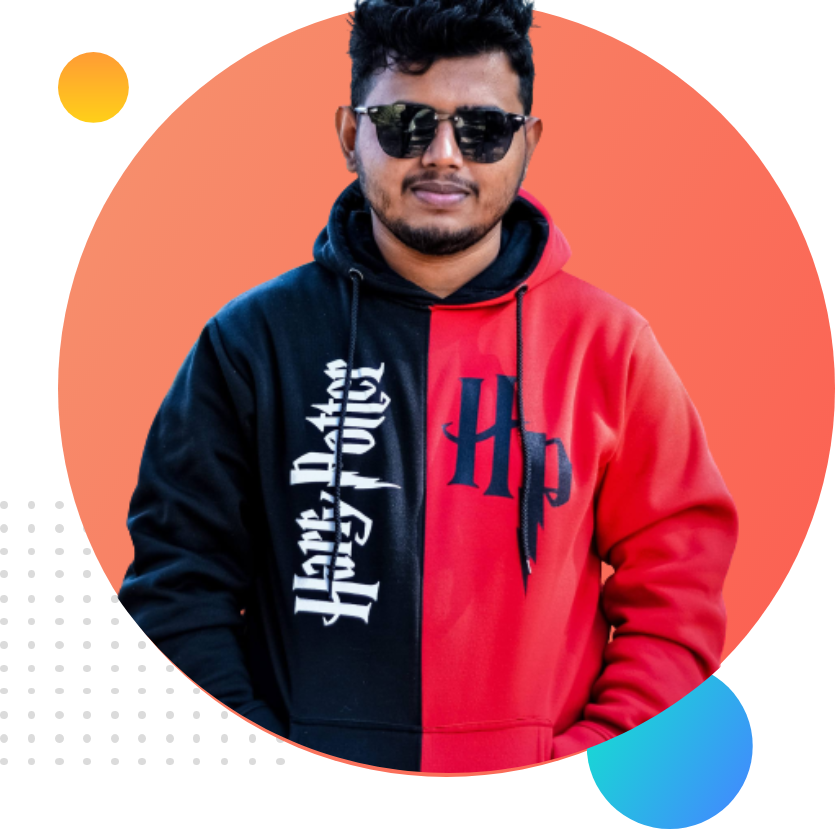
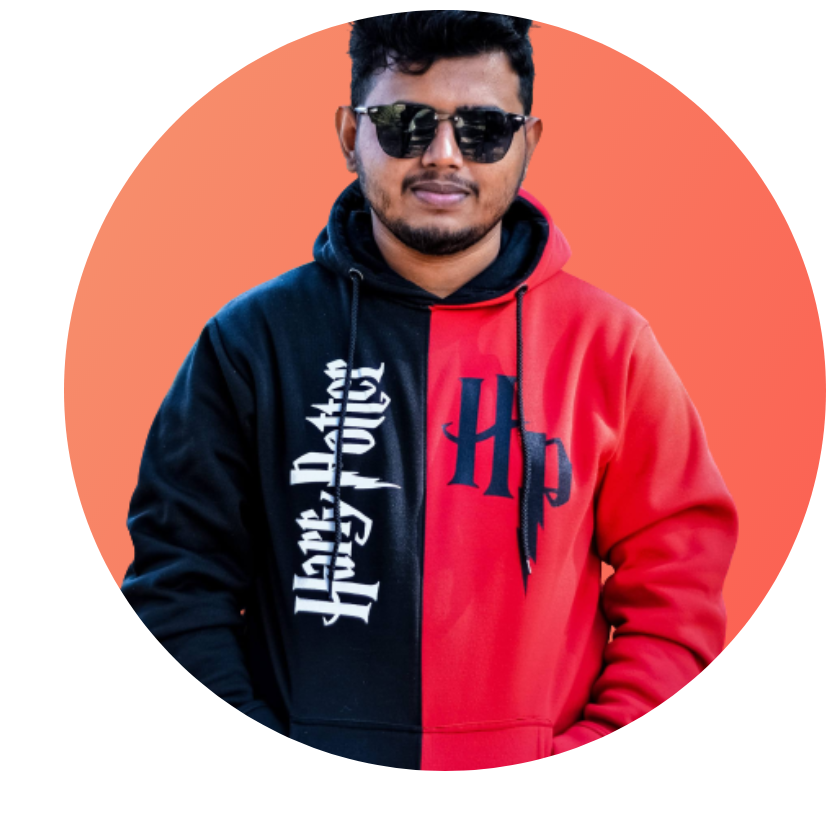
more code

diff --git a/index.html b/index.html
@@ -1,17 +1,34 @@
 <!DOCTYPE html>
 <html lang="en">
+
 <head>
     <meta charset="UTF-8">
     <meta http-equiv="X-UA-Compatible" content="IE=edge">
     <meta name="viewport" content="width=device-width, initial-scale=1.0">
     <title>Sudipta Portfolio</title>
     <link rel="preconnect" href="https://fonts.googleapis.com">
-<link rel="preconnect" href="https://fonts.gstatic.com" crossorigin>
-<link href="https://fonts.googleapis.com/css2?family=Ubuntu&display=swap" rel="stylesheet">
+    <link rel="preconnect" href="https://fonts.gstatic.com" crossorigin>
+    <link href="https://fonts.googleapis.com/css2?family=Ubuntu&display=swap" rel="stylesheet">
     <link rel="stylesheet" href="style.css">
 </head>
+
 <body>
-    <h1>Welcome To</h1>
-    <h1>Roy's Planet!</h1>
+    <section>
+        <div class="half-width">
+            <h1>Welcome To</h1>
+            <h1><span class="color">Sudipta Roy</span> Planet!</h1>
+            <h3>Web Developer and Penetration Tester</h3>
+            <p>Lorem ipsum dolor sit amet consectetur adipisicing elit. Amet atque iste magni alias rem veniam illo,
+                earum
+                dolore enim sint? Fugit reiciendis at, quis vitae rem corrupti voluptate velit saepe ab alias sit rerum
+                optio!
+            </p>
+            <a class="link-button" href="https://github.com/SudiptaRoy05" target="blank">HIRE ME</a>
+        </div>
+        <div class="half-width">
+            <img src="images/my-bg4.png" alt="Sudipta's pic">
+        </div>
+    </section>
 </body>
+
 </html>

diff --git a/style.css b/style.css
@@ -4,3 +4,24 @@ body{
 h1{
     font-size: 50px;
 }
+.color{
+    color: orangered;
+}
+section{
+    display: flex;
+}
+.half-width{
+    width: 50%;
+    padding: 5%;
+}
+.half-width img{
+    width: 60%;
+}
+.link-button{
+    text-decoration: none;
+    background-color: orangered;
+    padding: 10px 40px;
+    border-radius: 5px;
+    font-size: 700;
+    color: white;
+}
